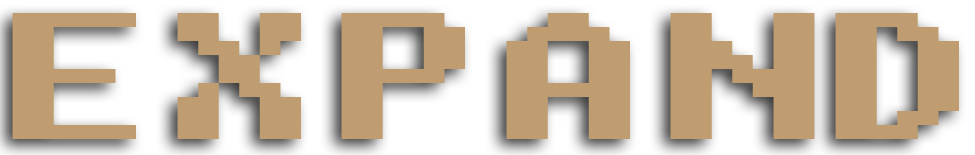
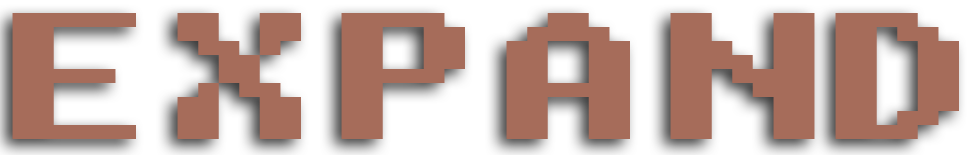
changed color scheme

diff --git a/app/assets/javascripts/home/index.js b/app/assets/javascripts/home/index.js
@@ -6,8 +6,9 @@ $(document).ready(function() {
 	var signin_popover_position = $('.signin_button').offset();
 	console.log('signin_popover_position: ' + signin_popover_position.left + ' ' + signin_popover_position.top);
 	$('.title').load(function() { // wait for image to load
+		console.log('singin_popover height: ' + $('.signin_popover').outerHeight());
 		signin_popover_position.left += $('.title').outerWidth() + $('.signin_button').outerWidth();
-		signin_popover_position.top -= $('.signin_popover').outerHeight() / 2 - $('.signin_button').outerHeight() / 2;
+		signin_popover_position.top -= get_popover_height('.signin_popover') / 2 - $('.signin_button').outerHeight() / 2;
 		signin_popover_position.top -= $('#mainbar').offset().top;
 		$('.signin_popover').css({ 'left': signin_popover_position.left, 'top': signin_popover_position.top });
 	});
@@ -31,8 +32,15 @@ $(document).ready(function() {
 		if(!signin_popover_visible) {
 			$('.signin_button').attr('src', 'assets/signin_button_hover.png');
 			$('.signin_popover').fadeIn('fast');
+			$('.signin_popover').css({ 'display': 'inline-block' });
 			signin_popover_visible = true;
 		}
 	});
 
 });
+
+function get_popover_height(popover) {
+	var border_size = $(popover).css('border-image-slice').split(" "); // [top, right, bottom, left]
+	var shadow_size = border_size[2] - border_size[0];
+	return $(popover).outerHeight() - shadow_size;
+}

diff --git a/app/assets/stylesheets/home/home.scss b/app/assets/stylesheets/home/home.scss
@@ -1,5 +1,6 @@
-$dark_background: #365656;
-$light_background: #568A8A;
+$dark_background: #464646;
+$light_background: #707070;
+$font_size: 10px;
 
 // fonts -- I'd like to be able to move this into the application.scss
 // and access it here too, but we need to figure out how to load these
@@ -13,7 +14,7 @@ $light_background: #568A8A;
 @import url(http://fonts.googleapis.com/css?family=Press+Start+2P);
 
 @mixin pixel_font($font_size) { 
-	font-family: Pixel, 'Press Start 2P', cursive;
+	font-family: Pixel, "Press Start 2P", cursive;
 	font-size: $font_size;
 }
 
@@ -44,20 +45,25 @@ $light_background: #568A8A;
 		.signin_popover {
 			display: none;
 			position: absolute;
-			width: 200px;
-			height: 100px;
 			border-width:14px 14px 28px 28px;
 			-moz-border-image: url(../popover_border.png) 14 14 28 28 fill stretch;
 			-webkit-border-image: url(../popover_border.png) 14 14 28 28 fill stretch;
 			border-image: url(../popover_border.png) 14 14 28 28 fill stretch;
 			
 			.signin_label {
-				@include pixel_font(10px);
+				@include pixel_font($font_size);
 				color: #fff;
 			}
 
+			.signin_field input {
+				@include pixel_font($font_size);
+				height: $font_size + 5px;
+				-moz-border-radius: 15px;
+				border-radius: 15px;
+			}
+
 			a {
-				@include pixel_font(10px);
+				@include pixel_font($font_size);
 			}
 		}
 

diff --git a/app/assets/stylesheets/home/home.css b/app/assets/stylesheets/home/home.css
@@ -8,8 +8,8 @@
   top: 30%;
   height: 17%;
   max-height: 100%;
-  background: #365656;
-  border-color: #568a8a;
+  background: #464646;
+  border-color: #707070;
   border-style: solid none solid;
   border-width: 0.4em;
   clear: both; }
@@ -21,16 +21,20 @@
   #mainbar .user_links .signin_popover {
     display: none;
     position: absolute;
-    width: 200px;
-    height: 100px;
     border-width: 14px 14px 28px 28px;
     -moz-border-image: url(../popover_border.png) 14 14 28 28 fill stretch;
     -webkit-border-image: url(../popover_border.png) 14 14 28 28 fill stretch;
     border-image: url(../popover_border.png) 14 14 28 28 fill stretch; }
     #mainbar .user_links .signin_popover .signin_label {
-      font-family: Pixel, 'Press Start 2P', cursive;
+      font-family: Pixel, "Press Start 2P", cursive;
       font-size: 10px;
       color: #fff; }
+    #mainbar .user_links .signin_popover .signin_field input {
+      font-family: Pixel, "Press Start 2P", cursive;
+      font-size: 10px;
+      height: 15px;
+      -moz-border-radius: 15px;
+      border-radius: 15px; }
     #mainbar .user_links .signin_popover a {
-      font-family: Pixel, 'Press Start 2P', cursive;
+      font-family: Pixel, "Press Start 2P", cursive;
       font-size: 10px; }
